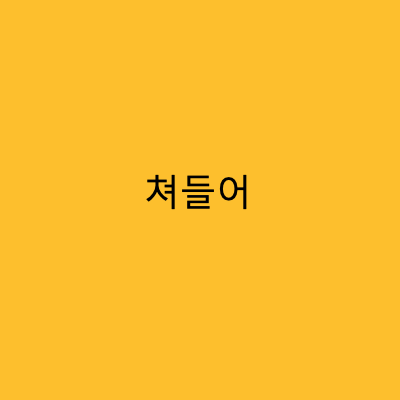
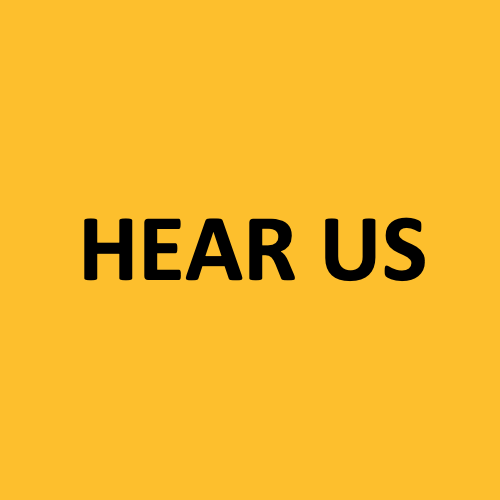
Changed button image and format of Main page. Added img folder in src folder

Changed region(s): [[0.15, 0.42, 0.87, 0.57]]

diff --git a/src/containers/SnuVoice/SnuVoice.js b/src/containers/SnuVoice/SnuVoice.js
@@ -2,6 +2,7 @@ import React, { Component } from 'react';
 
 import { connect } from 'react-redux';
 import { withRouter } from 'react-router';
+import { Row, Col } from 'react-bootstrap';
 import Button from 'react-bootstrap/Button';
 import Image from 'react-bootstrap/Image';
 
@@ -29,14 +30,18 @@ class SnuVoice extends Component {
         return (
             <div className="SnuVoice">
                 <UpperBar />
-                <div className="Row">
-                    <Button type="button" id="tell_me_button" onClick={this.onClickTellMeButton}>
-                        <Image src={TellMeButton} rounded/>
-                    </Button>
-                    <Button type="button" id="hear_us_button" onClick={this.onClickHearUsButton}>
-                        <Image src={HearUsButton} />
-                    </Button>
-                </div>
+                <Row>
+                    <Col>
+                        <Button type="button" id="tell_me_button" onClick={this.onClickTellMeButton}>
+                            <Image src={TellMeButton} alt="Go to Tell Me"rounded/>
+                        </Button>
+                    </Col>
+                    <Col>
+                        <Button type="button" id="hear_us_button" onClick={this.onClickHearUsButton}>
+                            <Image src={HearUsButton} alt="Go to Hear Us" rounded/>
+                        </Button>
+                    </Col>
+                </Row>
             </div>
         );
     }
